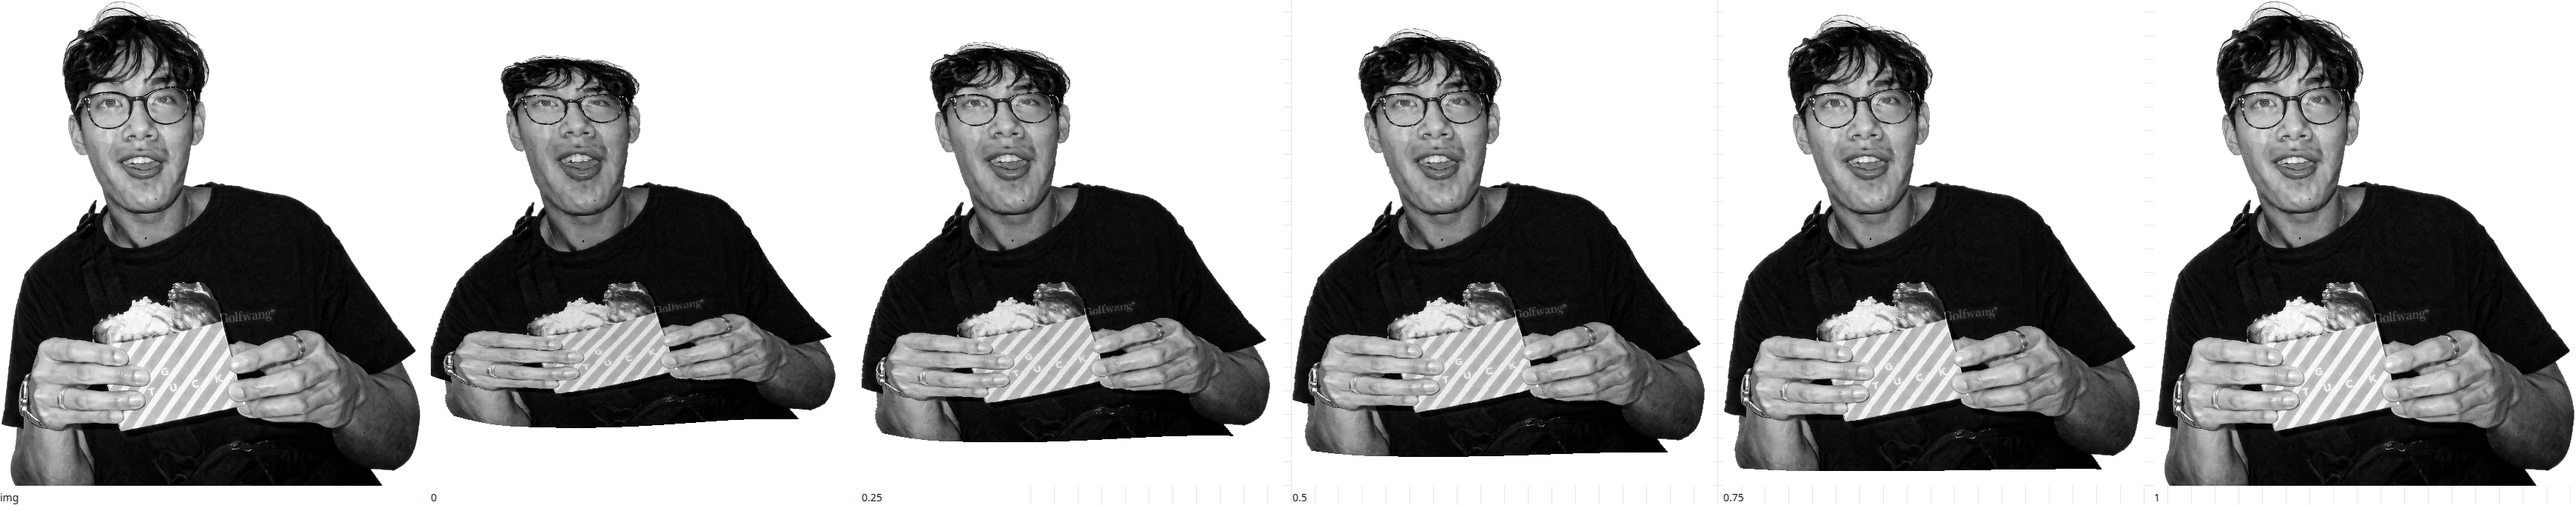
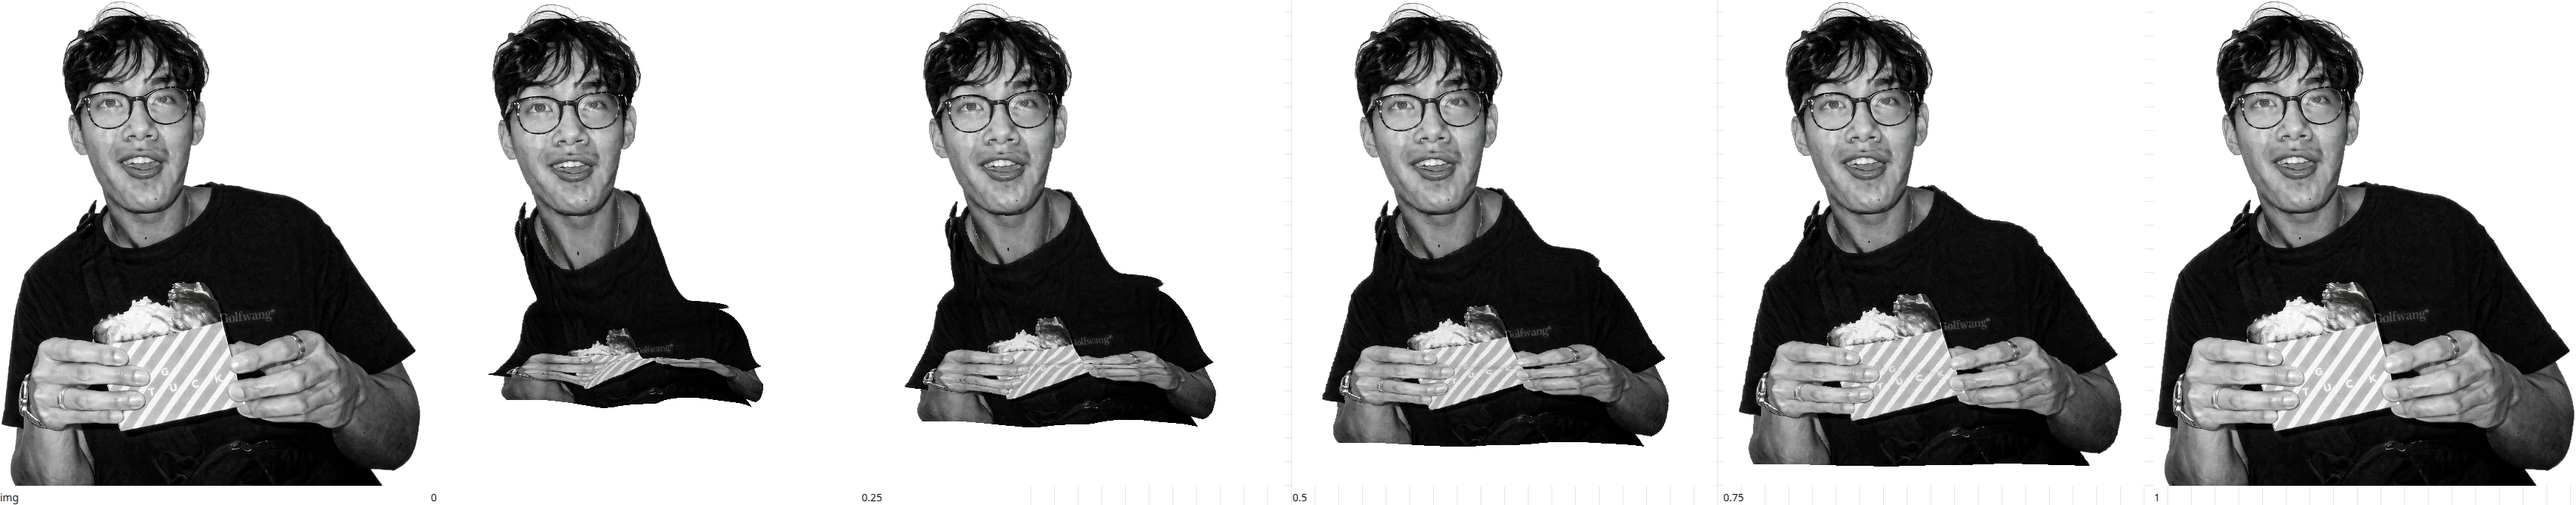
Deepen the paper folds away from the face.
The mild warp read as a bent photo. Creases now land on the shirt, hands, and edges, and a mask keeps the face light. Progress 1 interior MAE stays 0.

Changed region(s): [[0.1552, 0.0, 0.8379, 0.9531]]

diff --git a/src/lib/crumpleMaterial.js b/src/lib/crumpleMaterial.js
@@ -12,6 +12,7 @@ uniform float uProgress;
 uniform vec2 uPlane;
 varying vec2 vUv;
 varying float vShade;
+varying float vDepth;
 
 float hash(vec2 p) {
   vec3 p3 = fract(vec3(p.xyx) * 0.1031);
@@ -49,32 +50,47 @@ vec3 bendX(vec3 p, float axis, float angle, float soft, inout float crease, inou
   return vec3(axis + d * cos(ang), p.y, p.z + d * sin(ang));
 }
 
+float foldDepth(vec2 uv) {
+  vec2 q = (uv - vec2(0.32, 0.80)) / vec2(0.26, 0.30);
+  float face = 1.0 - smoothstep(0.72, 1.35, length(q));
+  return mix(1.0, 0.12, face);
+}
+
 void main() {
   vUv = uv;
   float k = 1.0 - uProgress;
   float h = uPlane.y;
   float w = uPlane.x;
   float span = min(w, h);
+  float depth = foldDepth(uv);
+  vDepth = depth;
   float crease = 0.0;
   float tilt = 0.0;
   vec3 p = vec3(position.xy, 0.0);
-  float yFold = 0.04 * h + sin(p.x / w * 6.2831853) * h * 0.04;
-  float xFold = -0.02 * w + sin(p.y / h * 6.2831853) * w * 0.03;
-  p = bendY(p, yFold, 0.78, h * 0.32, crease, tilt);
-  p = bendX(p, xFold, -0.42, w * 0.36, crease, tilt);
+  float chest = (0.42 - 0.5) * h + sin(p.x / w * 8.5) * h * 0.022;
+  float hands = (0.24 - 0.5) * h + sin(p.x / w * 6.4 + 1.1) * h * 0.018;
+  float hem = (0.10 - 0.5) * h + sin(p.x / w * 11.0) * h * 0.012;
+  p = bendY(p, chest, 0.95 * depth, h * 0.065, crease, tilt);
+  p = bendY(p, hands, -0.85 * depth, h * 0.05, crease, tilt);
+  p = bendY(p, hem, 0.6 * depth, h * 0.042, crease, tilt);
+  float gate = 1.0 - smoothstep(0.52, 0.62, uv.y);
+  p = bendX(p, (0.14 - 0.5) * w, 0.7 * depth * gate, w * 0.07, crease, tilt);
+  p = bendX(p, (0.84 - 0.5) * w, -0.6 * depth * gate, w * 0.08, crease, tilt);
 
-  float e = 0.018;
-  vec2 nuv = uv * vec2(2.15, 2.55) + vec2(1.6, 0.4);
+  float e = 0.016;
+  vec2 nuv = uv * vec2(3.4, 4.2) + vec2(1.7, 0.4);
   float n0 = noise(nuv);
   float gx = (noise(nuv + vec2(e, 0.0)) - noise(nuv - vec2(e, 0.0))) / (2.0 * e);
   float gy = (noise(nuv + vec2(0.0, e)) - noise(nuv - vec2(0.0, e))) / (2.0 * e);
-  p.xy += vec2(-gx, -gy) * span * 0.05;
-  p.z += (n0 - 0.5) * span * 0.2;
+  vec2 nuv2 = uv * vec2(6.8, 7.4) + vec2(5.0, 1.2);
+  float hx = (noise(nuv2 + vec2(e, 0.0)) - noise(nuv2 - vec2(e, 0.0))) / (2.0 * e);
+  float hy = (noise(nuv2 + vec2(0.0, e)) - noise(nuv2 - vec2(0.0, e))) / (2.0 * e);
+  p.xy += (vec2(-gx, -gy) * 0.05 + vec2(-hx, -hy) * 0.018) * span * depth;
+  p.z += ((n0 - 0.5) * 0.22 + (noise(nuv2) - 0.5) * 0.08) * span * depth;
 
   vec3 pos = position + (p - position) * k;
-  float shade = mix(1.0, 0.58, clamp(crease * 0.55, 0.0, 1.0));
-  shade *= mix(0.8, 1.0, cos(clamp(tilt * 0.55, 0.0, 1.15)));
-  shade *= mix(1.0, 0.76, smoothstep(0.15, 0.7, 0.62 - n0));
+  float shade = mix(1.0, 0.5, clamp(crease * 0.42, 0.0, 1.0));
+  shade *= mix(0.78, 1.0, cos(clamp(tilt * 0.4, 0.0, 1.15)));
   vShade = mix(1.0, shade, k);
   gl_Position = projectionMatrix * modelViewMatrix * vec4(pos, 1.0);
 }
@@ -85,6 +101,7 @@ uniform sampler2D uMap;
 uniform float uProgress;
 varying vec2 vUv;
 varying float vShade;
+varying float vDepth;
 
 float grain(vec2 p) {
   vec3 p3 = fract(vec3(p.xyx) * 0.1031);
@@ -97,8 +114,20 @@ void main() {
   float k = 1.0 - uProgress;
   if (k != 0.0) {
     if (texel.a < 0.02) discard;
+    float y1 = 0.42 + 0.022 * sin(vUv.x * 8.5);
+    float y2 = 0.24 + 0.018 * sin(vUv.x * 6.4 + 1.1);
+    float y3 = 0.10 + 0.012 * sin(vUv.x * 11.0);
+    float lines = exp(-abs(vUv.y - y1) * 95.0);
+    lines += exp(-abs(vUv.y - y2) * 115.0);
+    lines += exp(-abs(vUv.y - y3) * 130.0);
+    float side = 1.0 - smoothstep(0.52, 0.62, vUv.y);
+    float x1 = 0.14 + 0.012 * sin(vUv.y * 8.0);
+    float x2 = 0.84 + 0.014 * sin(vUv.y * 8.0 + 1.7);
+    lines += (exp(-abs(vUv.x - x1) * 75.0) + exp(-abs(vUv.x - x2) * 75.0)) * side;
+    float ink = clamp(lines, 0.0, 1.0) * vDepth;
+    texel.rgb *= mix(1.0, mix(1.0, 0.46, ink), k);
     texel.rgb *= vShade;
-    texel.rgb *= 1.0 + (grain(gl_FragCoord.xy) - 0.5) * 0.035 * k;
+    texel.rgb *= 1.0 + (grain(gl_FragCoord.xy) - 0.5) * 0.04 * k;
   }
   gl_FragColor = texel;
   #include <colorspace_fragment>
